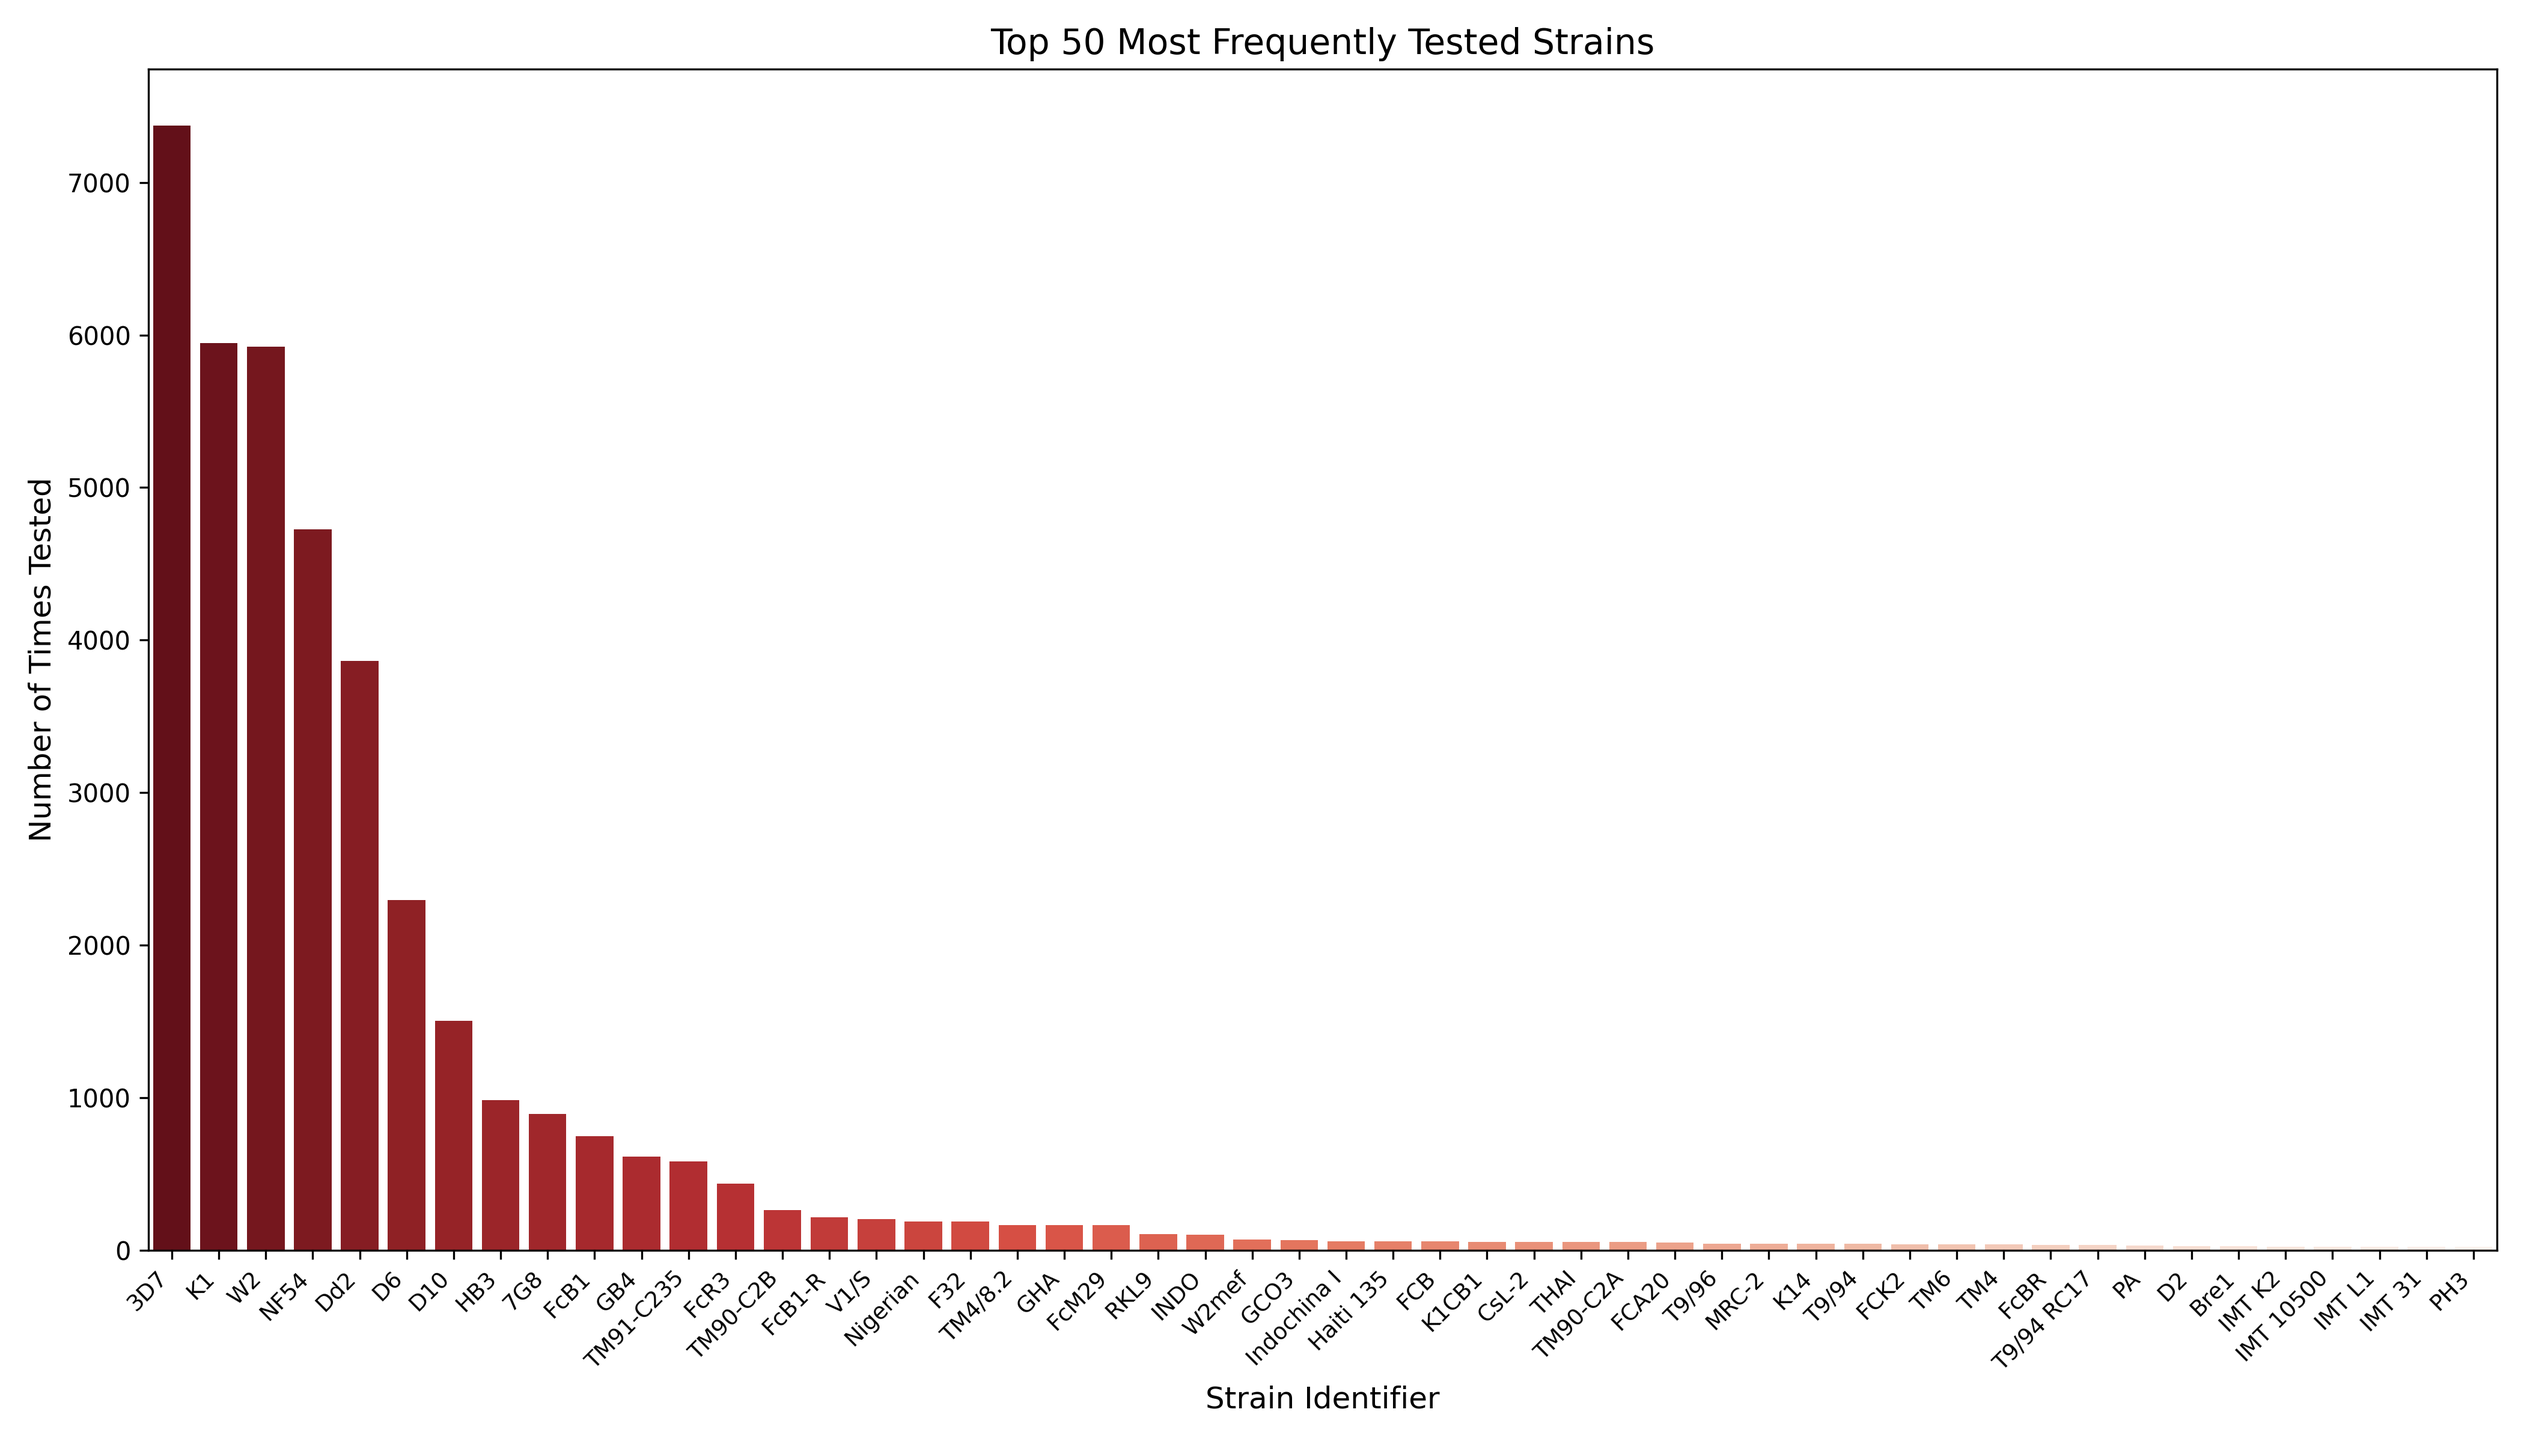
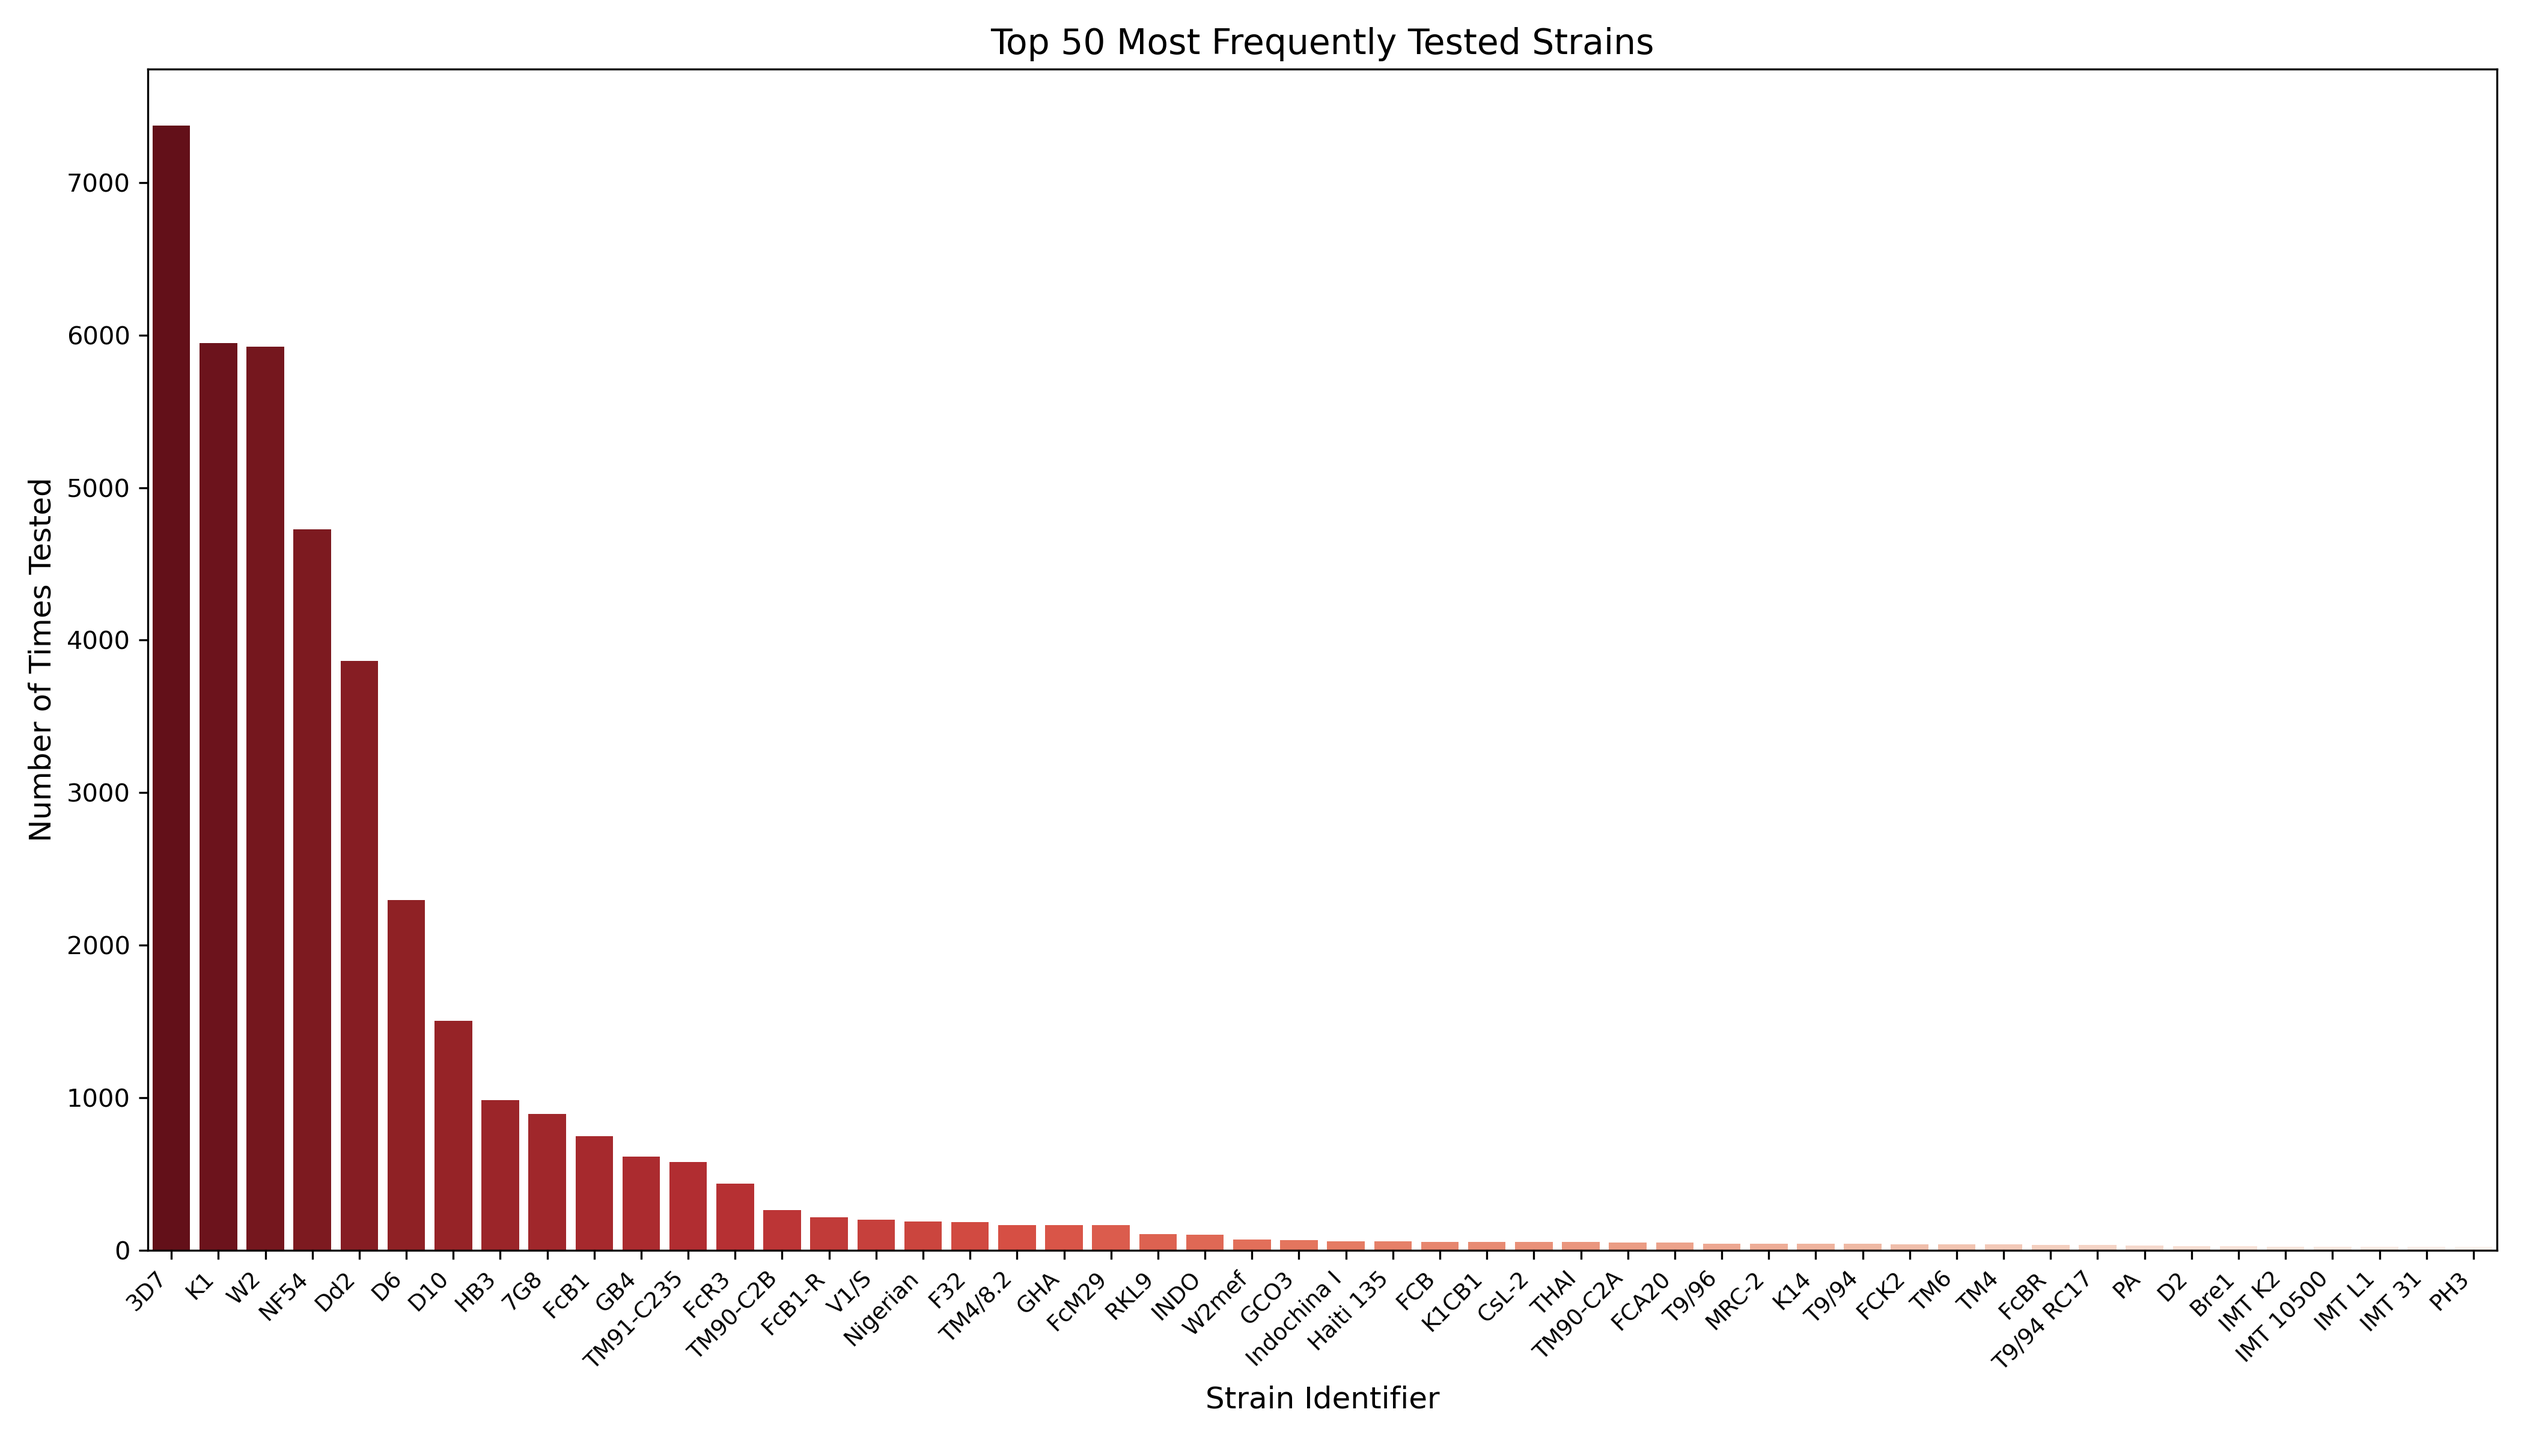
updating strain count veriables to chembl data distribution

diff --git a/p1_preprocessing/3 - Graphing data/chembl_distribution_histograms/strain_molecule_distributions_histograms.py b/p1_preprocessing/3 - Graphing data/chembl_distribution_histograms/strain_molecule_distributions_histograms.py
@@ -65,14 +65,14 @@ unique_strain_counts = (pairings_data.groupby('Molecule')['Strain'].nunique()
     .reset_index()
     .sort_values(by='Strain', ascending=False))
 
-unique_strain_counts.columns = ['Chemical', 'UniqueStrains']
+unique_strain_counts.columns = ['Molecule', 'UniqueStrains']
 
 # Color palette
 diversity_palette = sns.color_palette("Reds", n_colors=50)[::-1]
 
 # Generate barplot 
 plt.figure(figsize=(14, 8))
-sns.barplot(data=unique_strain_counts, x='Chemical', y='UniqueStrains', palette=diversity_palette)
+sns.barplot(data=unique_strain_counts, x='Molecule', y='UniqueStrains', palette=diversity_palette)
 
 # Customizations
 plt.xticks(rotation=45, ha='right', fontsize=7)

diff --git a/p1_preprocessing/3 - Graphing data/chembl_distribution_histograms/strain_counts.py b/p1_preprocessing/3 - Graphing data/chembl_distribution_histograms/strain_counts.py
@@ -9,9 +9,9 @@ data = pd.read_csv(csv_file_path)
 print(data.columns)
 
 # Verify the column "stand_strain" exists
-if "Strains" in data.columns:
+if "standardized_strain" in data.columns:
     # Count occurrences of each item in the "stand_strain column
-    strain_counts = Counter(data["Strains"].dropna())
+    strain_counts = Counter(data["standardized_strain"].dropna())
     
     # Print the counts
     for strain, count in strain_counts.items():
